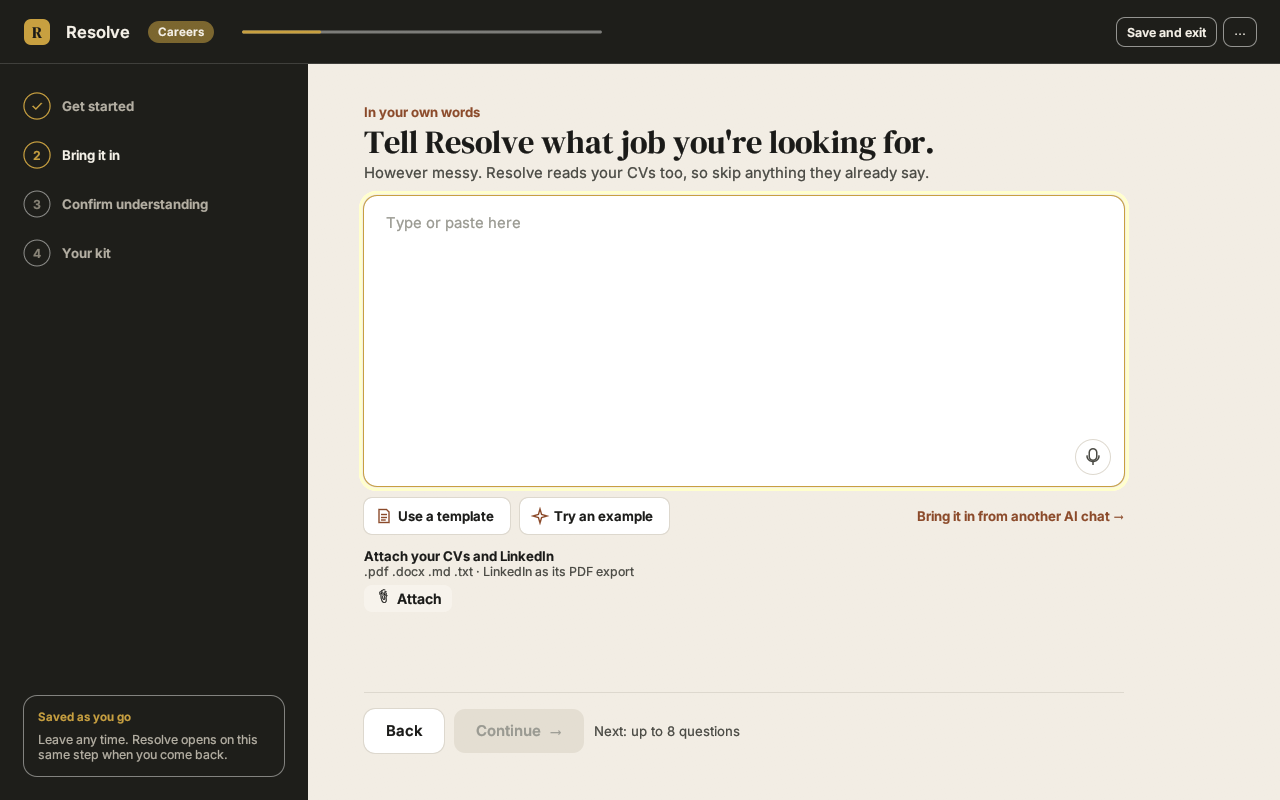
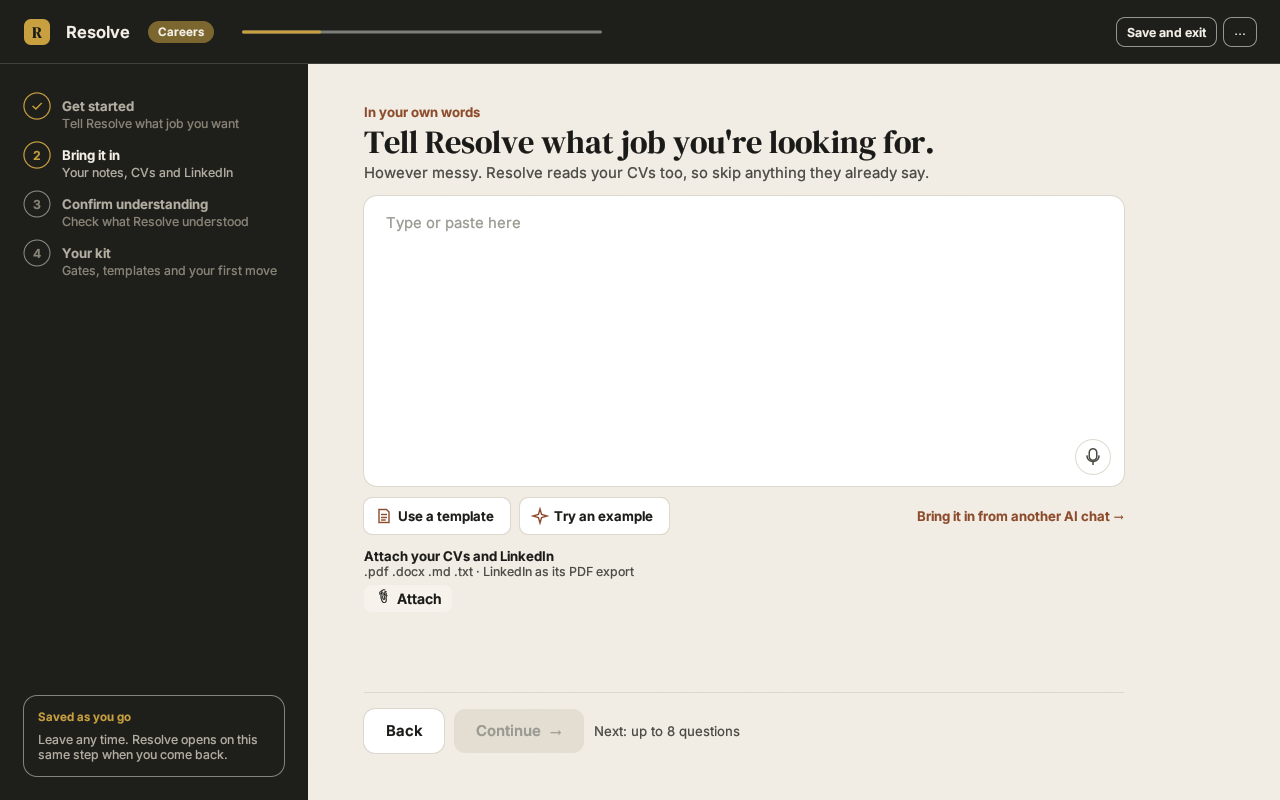
Careers Step 2 review fixes (0.8.2)
- the Careers rail's four step lines
- the search name on 09 names the new workspace; the editor's separate field is gone
- the LinkedIn PDF export in docs/test-files/ reads (668 words; never committed)

Self-test 358 passed, 0 failed.

diff --git a/src/ui/dashboard.rs b/src/ui/dashboard.rs
@@ -77,8 +77,13 @@ pub const RAIL_STEPS: [(&str, &str); 4] = [
     ("Your next move", "One clear recommended action and a roadmap built from your project"),
 ];
 
-/// Careers mode's rail steps (Careers brief, "Careers intake"). The canvas rail shows names only.
-pub const RAIL_STEPS_CAREERS: [(&str, &str); 4] = [("Get started", ""), ("Bring it in", ""), ("Confirm understanding", ""), ("Your kit", "")];
+/// Careers mode's rail steps, each with its line as PM has (lines confirmed 11 Nov 2026).
+pub const RAIL_STEPS_CAREERS: [(&str, &str); 4] = [
+    ("Get started", "Tell Resolve what job you want"),
+    ("Bring it in", "Your notes, CVs and LinkedIn"),
+    ("Confirm understanding", "Check what Resolve understood"),
+    ("Your kit", "Gates, templates and your first move"),
+];
 
 /// Everything Home shows, from the workspace alone (no AI). `now` is the app's clock;
 /// `real_ms` the real time, for ages and "since Monday" (edit times are real).

diff --git a/src/main.rs b/src/main.rs
@@ -290,7 +290,8 @@ fn main() {
         let adopt = args.iter().any(|a| a == "--adopt");
         // a Careers run adopts into a new workspace in Careers mode, as the app does
         let careers_new = adopt && run.mode == model::Mode::Careers && run.career.as_ref().map_or(false, |c| c.kit.is_some());
-        let meta = if careers_new { reg.create("Job search", [94, 125, 79]) } else { reg.find("Personal").cloned().unwrap_or_else(|| reg.workspaces[0].clone()) };
+        let search = run.career.as_ref().and_then(|c| c.kit.as_ref()).map(|k| k.search_name.trim().to_string()).filter(|n| !n.is_empty()).unwrap_or_else(|| "Job search".into());
+        let meta = if careers_new { reg.create(&search, [94, 125, 79]) } else { reg.find("Personal").cloned().unwrap_or_else(|| reg.workspaces[0].clone()) };
         let mut st = store::Store::open(meta);
         if careers_new {
             st.data.mode = model::Mode::Careers;

diff --git a/src/ui/intake_careers.rs b/src/ui/intake_careers.rs
@@ -993,13 +993,7 @@ impl App {
                             field(ui, "Search name", &mut k.search_name, ("search", 0));
                         });
                         if !here {
-                            if c.workspace.trim().is_empty() {
-                                c.workspace = "Job search".into();
-                            }
-                            edit_card(ui, false, &mut |ui| {
-                                field(ui, "Workspace name", &mut c.workspace, ("workspace", 0));
-                                ui.label(RichText::new("Adopt creates this workspace, in Careers mode.").size(size::SMALL).color(p.dim));
-                            });
+                            ui.label(RichText::new("Adopt creates a workspace with this name, in Careers mode.").size(size::SMALL).color(p.dim));
                         }
                     }
                     "Gates" => {

diff --git a/src/ui/intake_review.rs b/src/ui/intake_review.rs
@@ -291,7 +291,9 @@ impl App {
             crate::resolve::careers::finish(k);
         }
         if !here {
-            let want = if c.workspace.trim().is_empty() { "Job search".to_string() } else { c.workspace.trim().to_string() };
+            // the search name on 09 names the workspace too
+            let search = c.kit.as_ref().map(|k| k.search_name.trim().to_string()).unwrap_or_default();
+            let want = if search.is_empty() { "Job search".to_string() } else { search };
             // a free name: "Job search", then "Job search 2"…
             let mut name = want.clone();
             let mut n = 2;

diff --git a/src/resolve/careers.rs b/src/resolve/careers.rs
@@ -174,8 +174,8 @@ pub struct Career {
     /// fixes, First week).
     #[serde(default)]
     pub page: String,
-    /// The workspace name Adopt creates (default "Job search").
-    #[serde(default)]
+    /// No longer used: the search name on 09 names the workspace (kept so older intakes load).
+    #[serde(default, skip_serializing_if = "String::is_empty")]
     pub workspace: String,
     /// Adopt into the current (Careers) workspace: a second search from + New project.
     #[serde(default)]

diff --git a/src/seed.rs b/src/seed.rs
@@ -777,7 +777,7 @@ pub fn careers_sample(d: &mut WorkspaceData) -> Id {
         offline: false,
     };
     careers::finish(&mut kit);
-    let mut c = Career { cards: Some(cards), kit: Some(kit), workspace: "Job search".into(), ..Default::default() };
+    let mut c = Career { cards: Some(cards), kit: Some(kit), ..Default::default() };
     c.cards_n = i.qas.iter().filter(|q| !q.answer.trim().is_empty()).count() + 1;
     c.kit_from = c.cards_key();
     i.career = Some(c);

diff --git a/CHANGELOG.md b/CHANGELOG.md
@@ -2,6 +2,15 @@
 
 Every build of Resolve 2 has a version number. The minor number goes up for each merged redesign phase or Careers step, the patch number for each fix. You can see the version in the window title. Newest first.
 
+## 0.8.2 (11 November 2026)
+
+Careers Step 2, reviewed (branch `careers/s2-intake`).
+
+**What changed**
+- The Careers intake's steps each have a short line, as the project intake does: "Tell Resolve what job you want", "Your notes, CVs and LinkedIn", "Check what Resolve understood", "Gates, templates and your first move".
+- The search name on "Here's your kit." also names the new workspace. The separate workspace name field in the full proposal is gone.
+- Your LinkedIn PDF export reads as clean text (checked by the self-test).
+
 ## 0.8.1 (11 November 2026)
 
 Careers Step 2, continued (branch `careers/s2-intake`). Waiting for your review in the preview, not merged yet.
